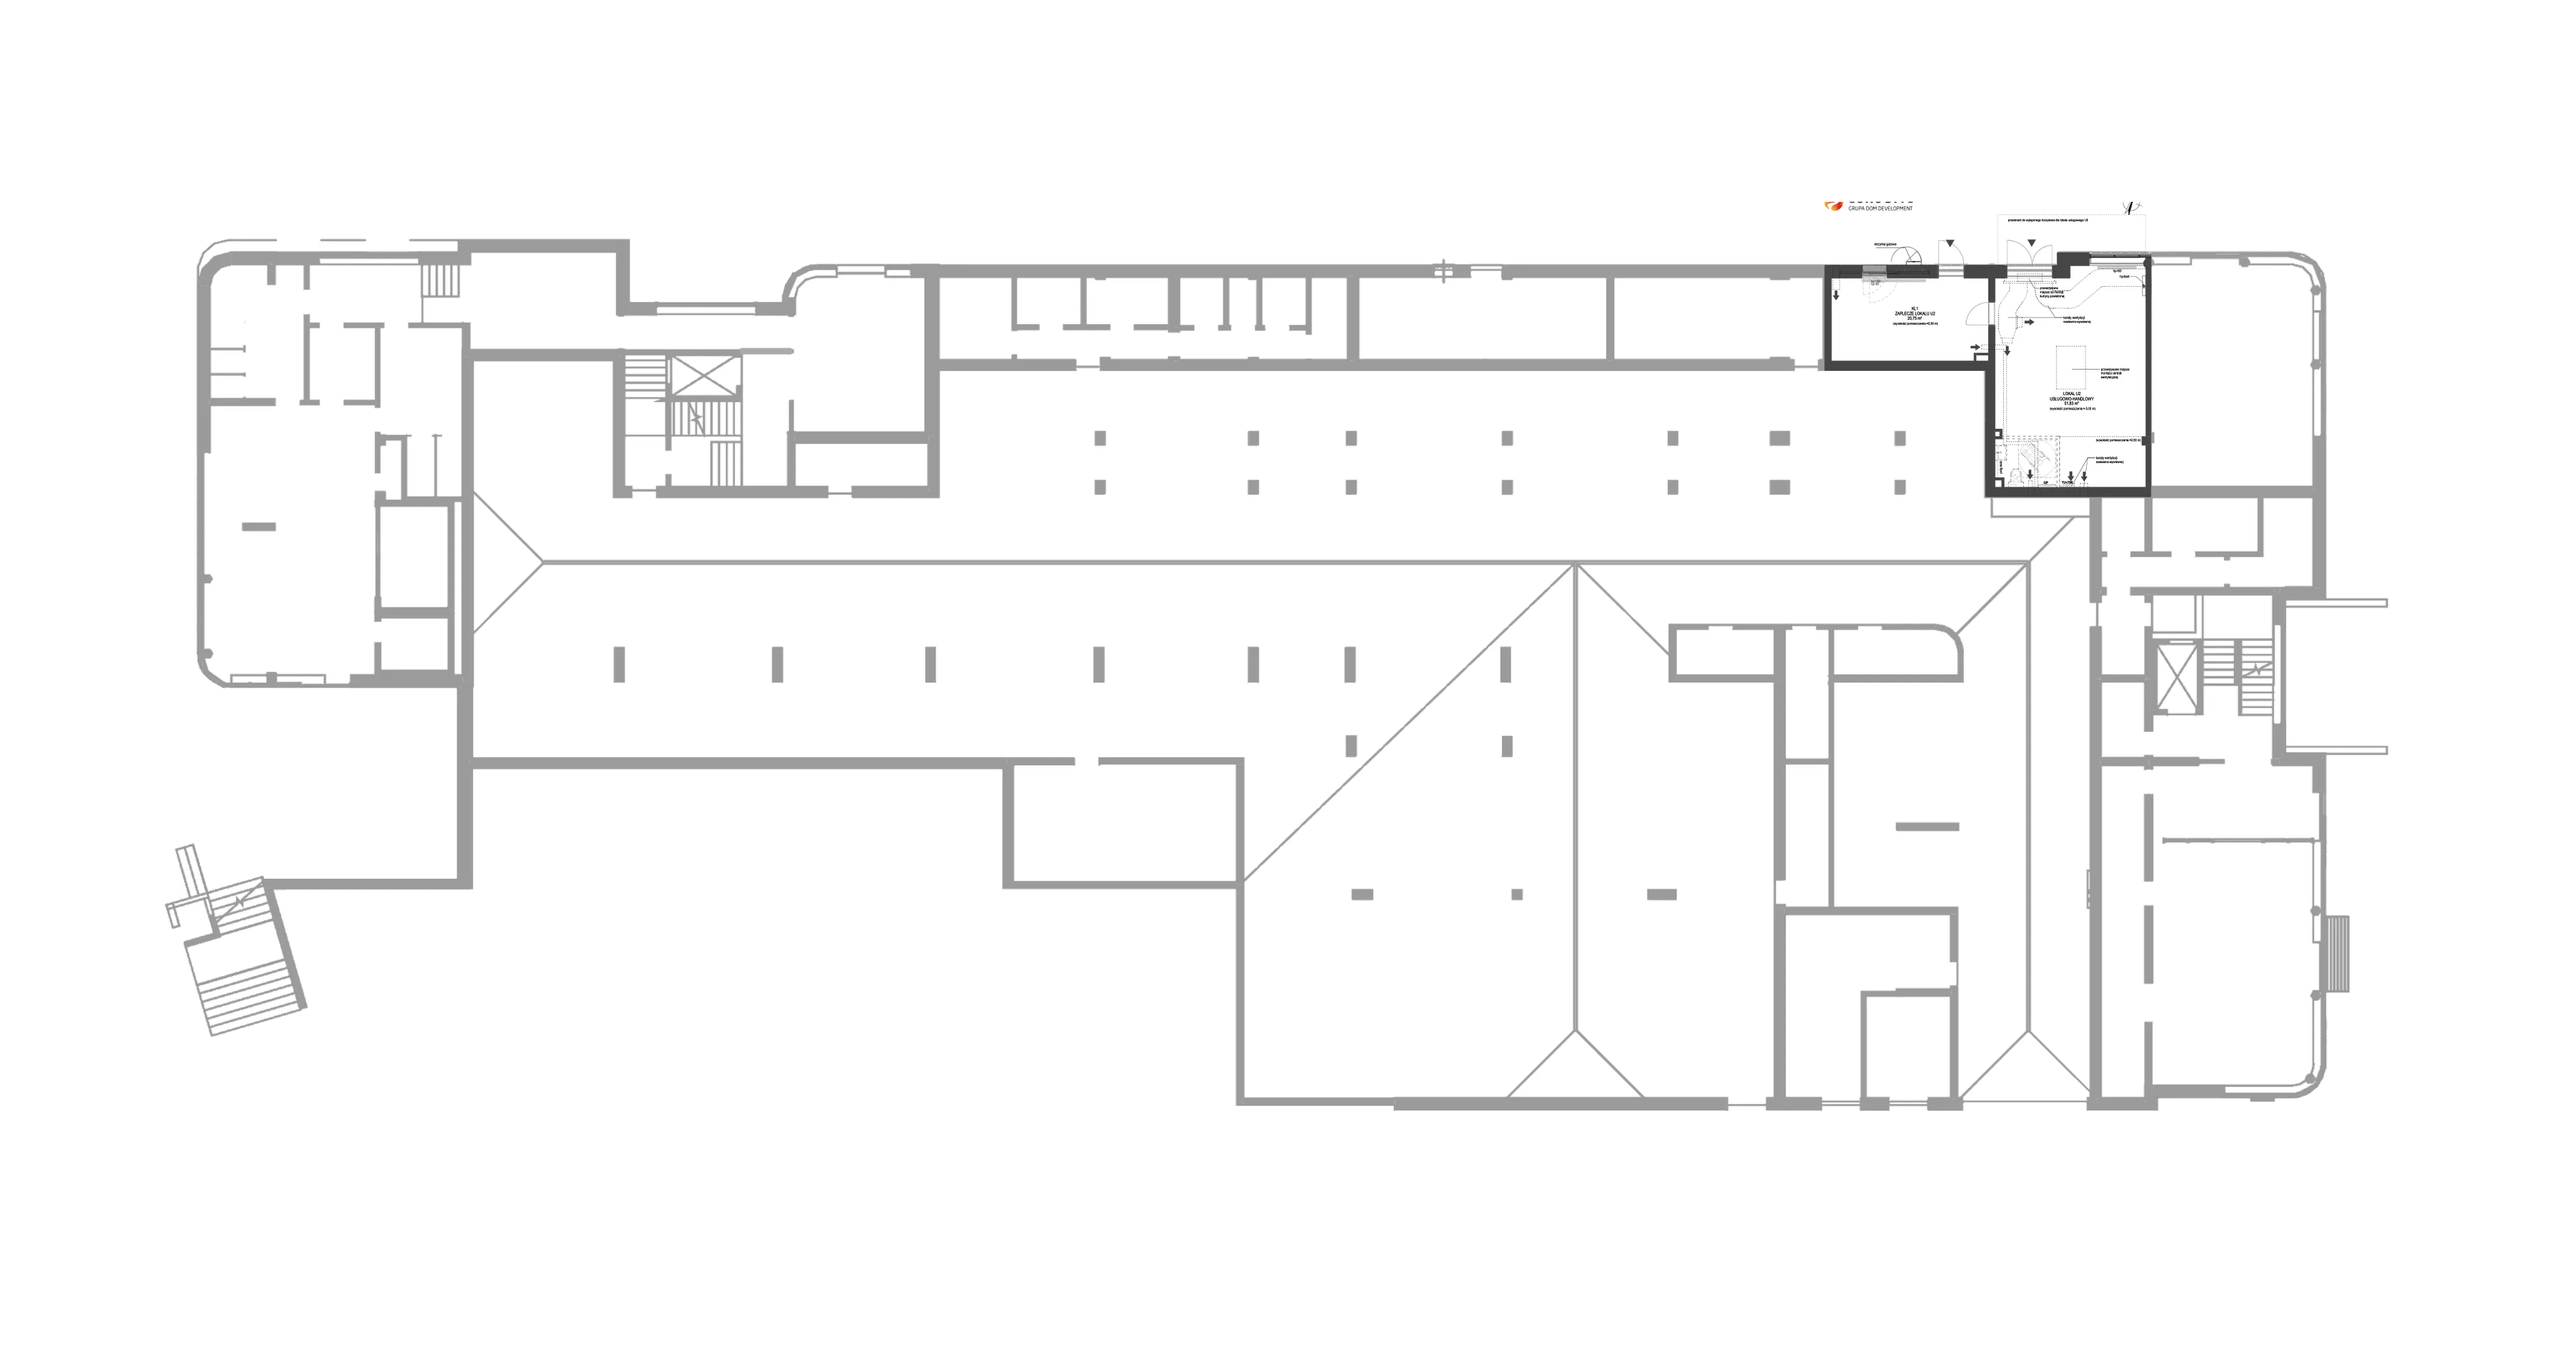
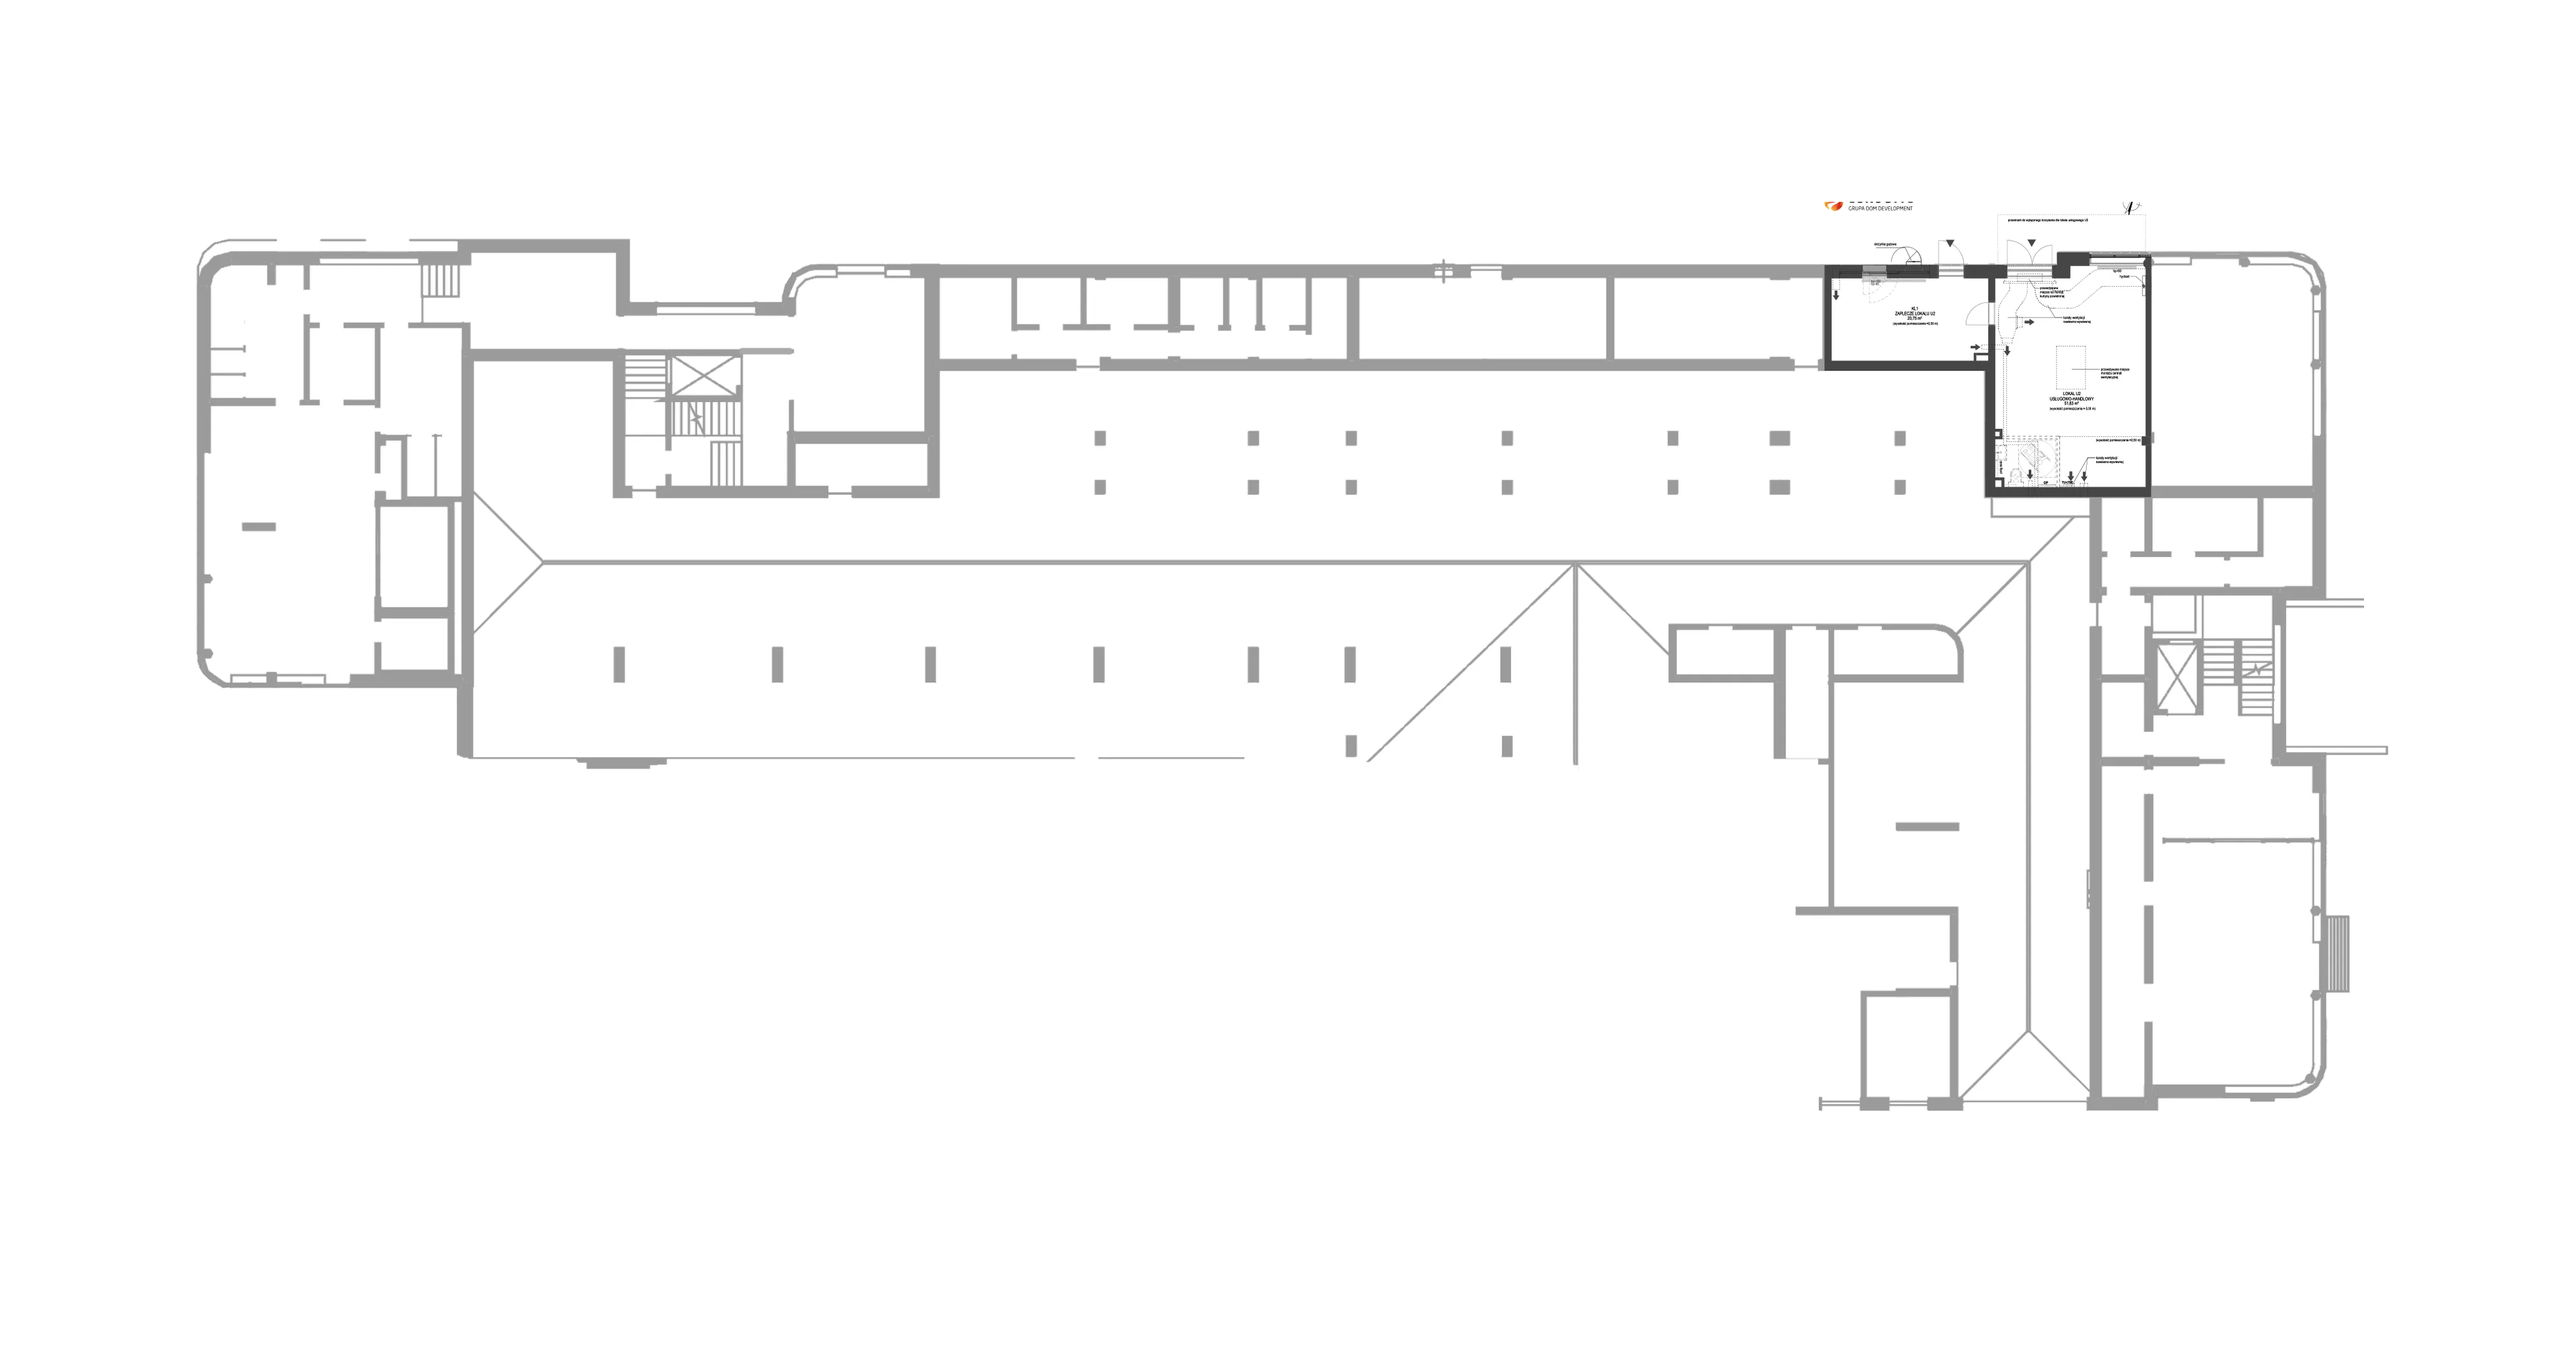
Przeglądarka 3D: parter budynku A przycięty do obrysu budynku
Claude-Session: https://claude.ai/code/session_018rVPqd1f5Jrh8jkHTsRosh

Changed region(s): [[0.25, 0.5625, 0.7188, 0.8438], [0.0625, 0.5625, 0.2188, 0.75], [0.625, 0.6562, 0.6562, 0.6875]]

diff --git a/marina-hel-plany/viewer3d/tools/build_assets.py b/marina-hel-plany/viewer3d/tools/build_assets.py
@@ -7,6 +7,10 @@ Image.MAX_IMAGE_PIXELS = None
 src = sys.argv[1]; T = 'viewer3d/tools/'; an = json.load(open(T + 'analysis.json')); fit = json.load(open(T + 'fit.json'))
 bud = json.load(open('data/budynki.json')); lok = json.load(open('data/lokale.json'))
 data = dict(buildings={}, floors=[], units=[])
+def fmask(a, k=61):
+    ink = (a.min(2) < 245)
+    cl = ndi.minimum_filter1d(ndi.minimum_filter1d(ndi.maximum_filter1d(ndi.maximum_filter1d(np.pad(ink.view(np.uint8), k), k, axis=0), k, axis=1), k, axis=0), k, axis=1)[k:-k, k:-k]
+    return ndi.binary_fill_holes(cl > 0)
 for name in ['Budynek_A', 'Budynek_B', 'Budynek_C']:
     z = np.load(os.path.join(src, name + '.npz')); co, t, mi = z['co'], z['t'], z['mi']
     mats = list(an[name]['matcol'].keys()); order = np.argsort(mi, kind='stable'); t = t[order]; mi = mi[order]
@@ -27,9 +31,10 @@ for B in 'AB':
     for fl in sorted(zf):
         for suf in ('', '_opis'):
             im = Image.open(f'out/tekstury/MarinaHel_{B}_pietro{fl}{suf}.png').convert('RGB'); a = np.asarray(im)
-            ink = (a.min(2) < 245); k = 61
-            cl = ndi.minimum_filter1d(ndi.minimum_filter1d(ndi.maximum_filter1d(ndi.maximum_filter1d(np.pad(ink.view(np.uint8), k), k, axis=0), k, axis=1), k, axis=0), k, axis=1)[k:-k, k:-k]
-            mask = ndi.binary_fill_holes(cl > 0)
+            mask = fmask(a)
+            if B == 'A' and fl == 0:      # parter A: plan obejmuje też halę garażową pod dziedzińcem i schody terenowe - zostaje tylko obrys budynku
+                ref = fmask(np.asarray(Image.open('out/tekstury/MarinaHel_A_pietro2.png').convert('RGB')))
+                mask &= ndi.maximum_filter1d(ndi.maximum_filter1d(ref.view(np.uint8), 81, axis=0), 81, axis=1) > 0
             rgba = np.dstack([a, (mask * 255).astype(np.uint8)]); im2 = Image.fromarray(rgba, 'RGBA')
             if im2.width > 4096: im2 = im2.resize((4096, round(im2.height * 4096 / im2.width)), Image.LANCZOS)
             im2.save(f'viewer3d/tex/{B}{fl}{suf}.webp', quality=80, method=4)
